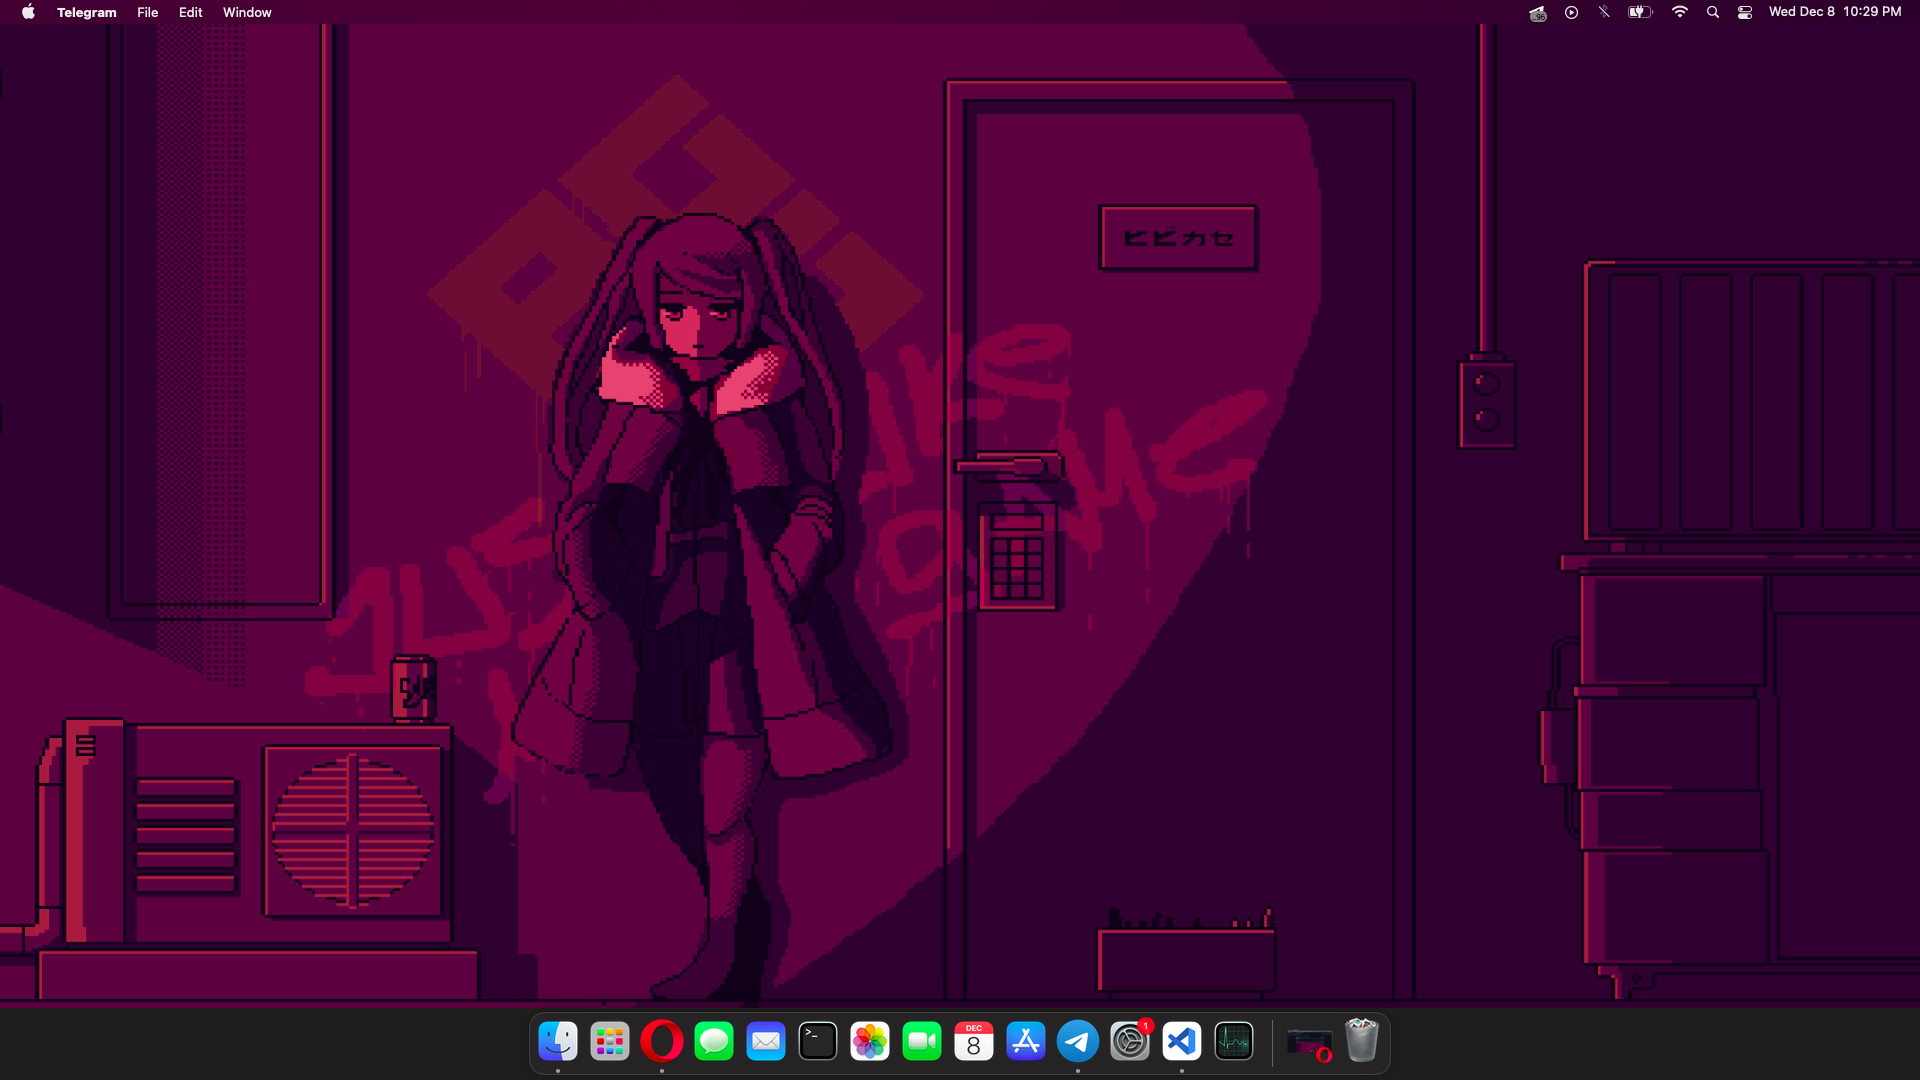
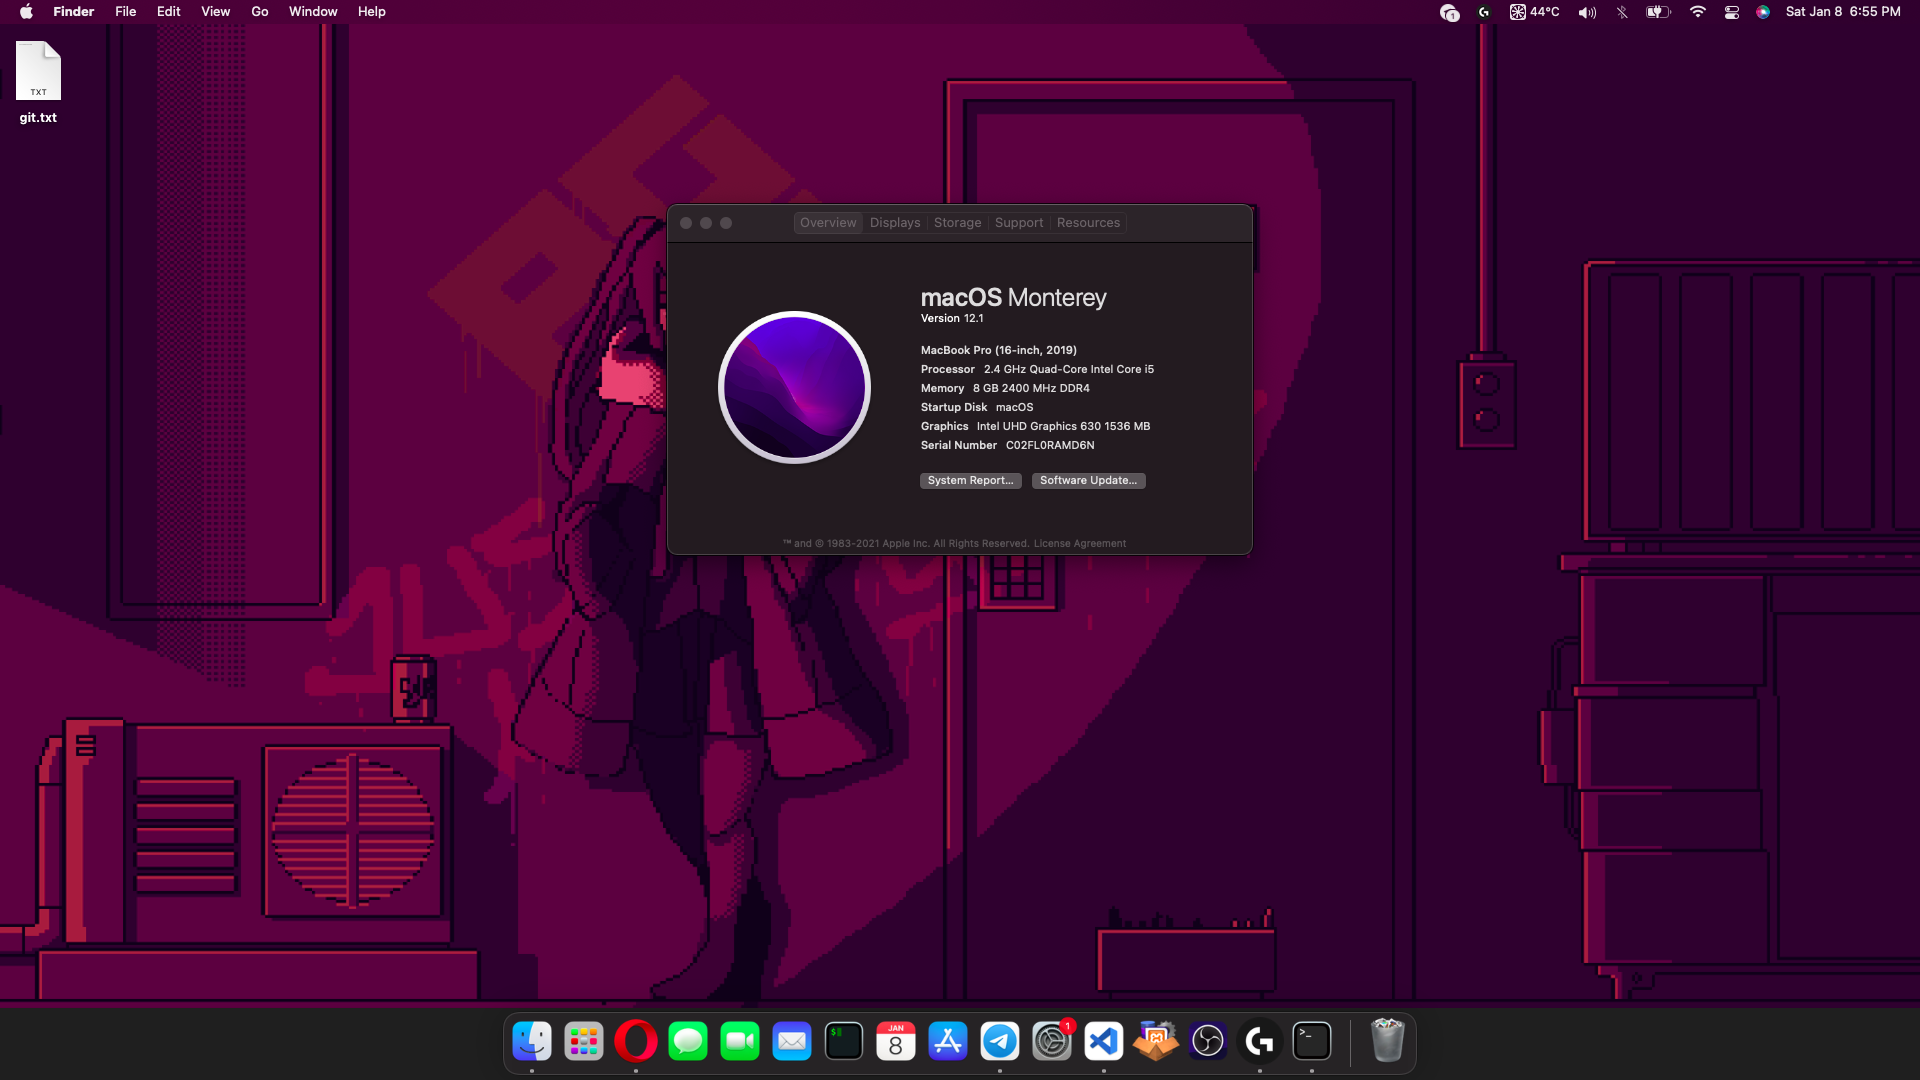
Update README  * Update cover while we're at it

diff --git a/README.md b/README.md
@@ -13,13 +13,14 @@ IdeaPad L340-15IRH Gaming specification:
 | Display | 15.6in FullHD | |
 | RAM | 8GB DDR4 | |
 | Wifi| Intel Wireless-AC 9560 160mhz | |
+| Bluetooth | BCM_4350C2 | Working on Big Sur but broken in Monterey |
 | NVME SSD| Intel SSD 660p Series 512GB | |
 | SATA Disk | None | |
 | USB | 2 USB 3.1 + 1 USB 3.1 Type C | |
 | Trackpad | Synaptics SYNA2B52 | |
 | Audio | Realtek ALC 257 |
 | BIOS version| BGCN33WW |
-| OSX version| Big Sur 11 |
+| OSX version| Monterey 12.1 |
 
 ## Not working?
 
